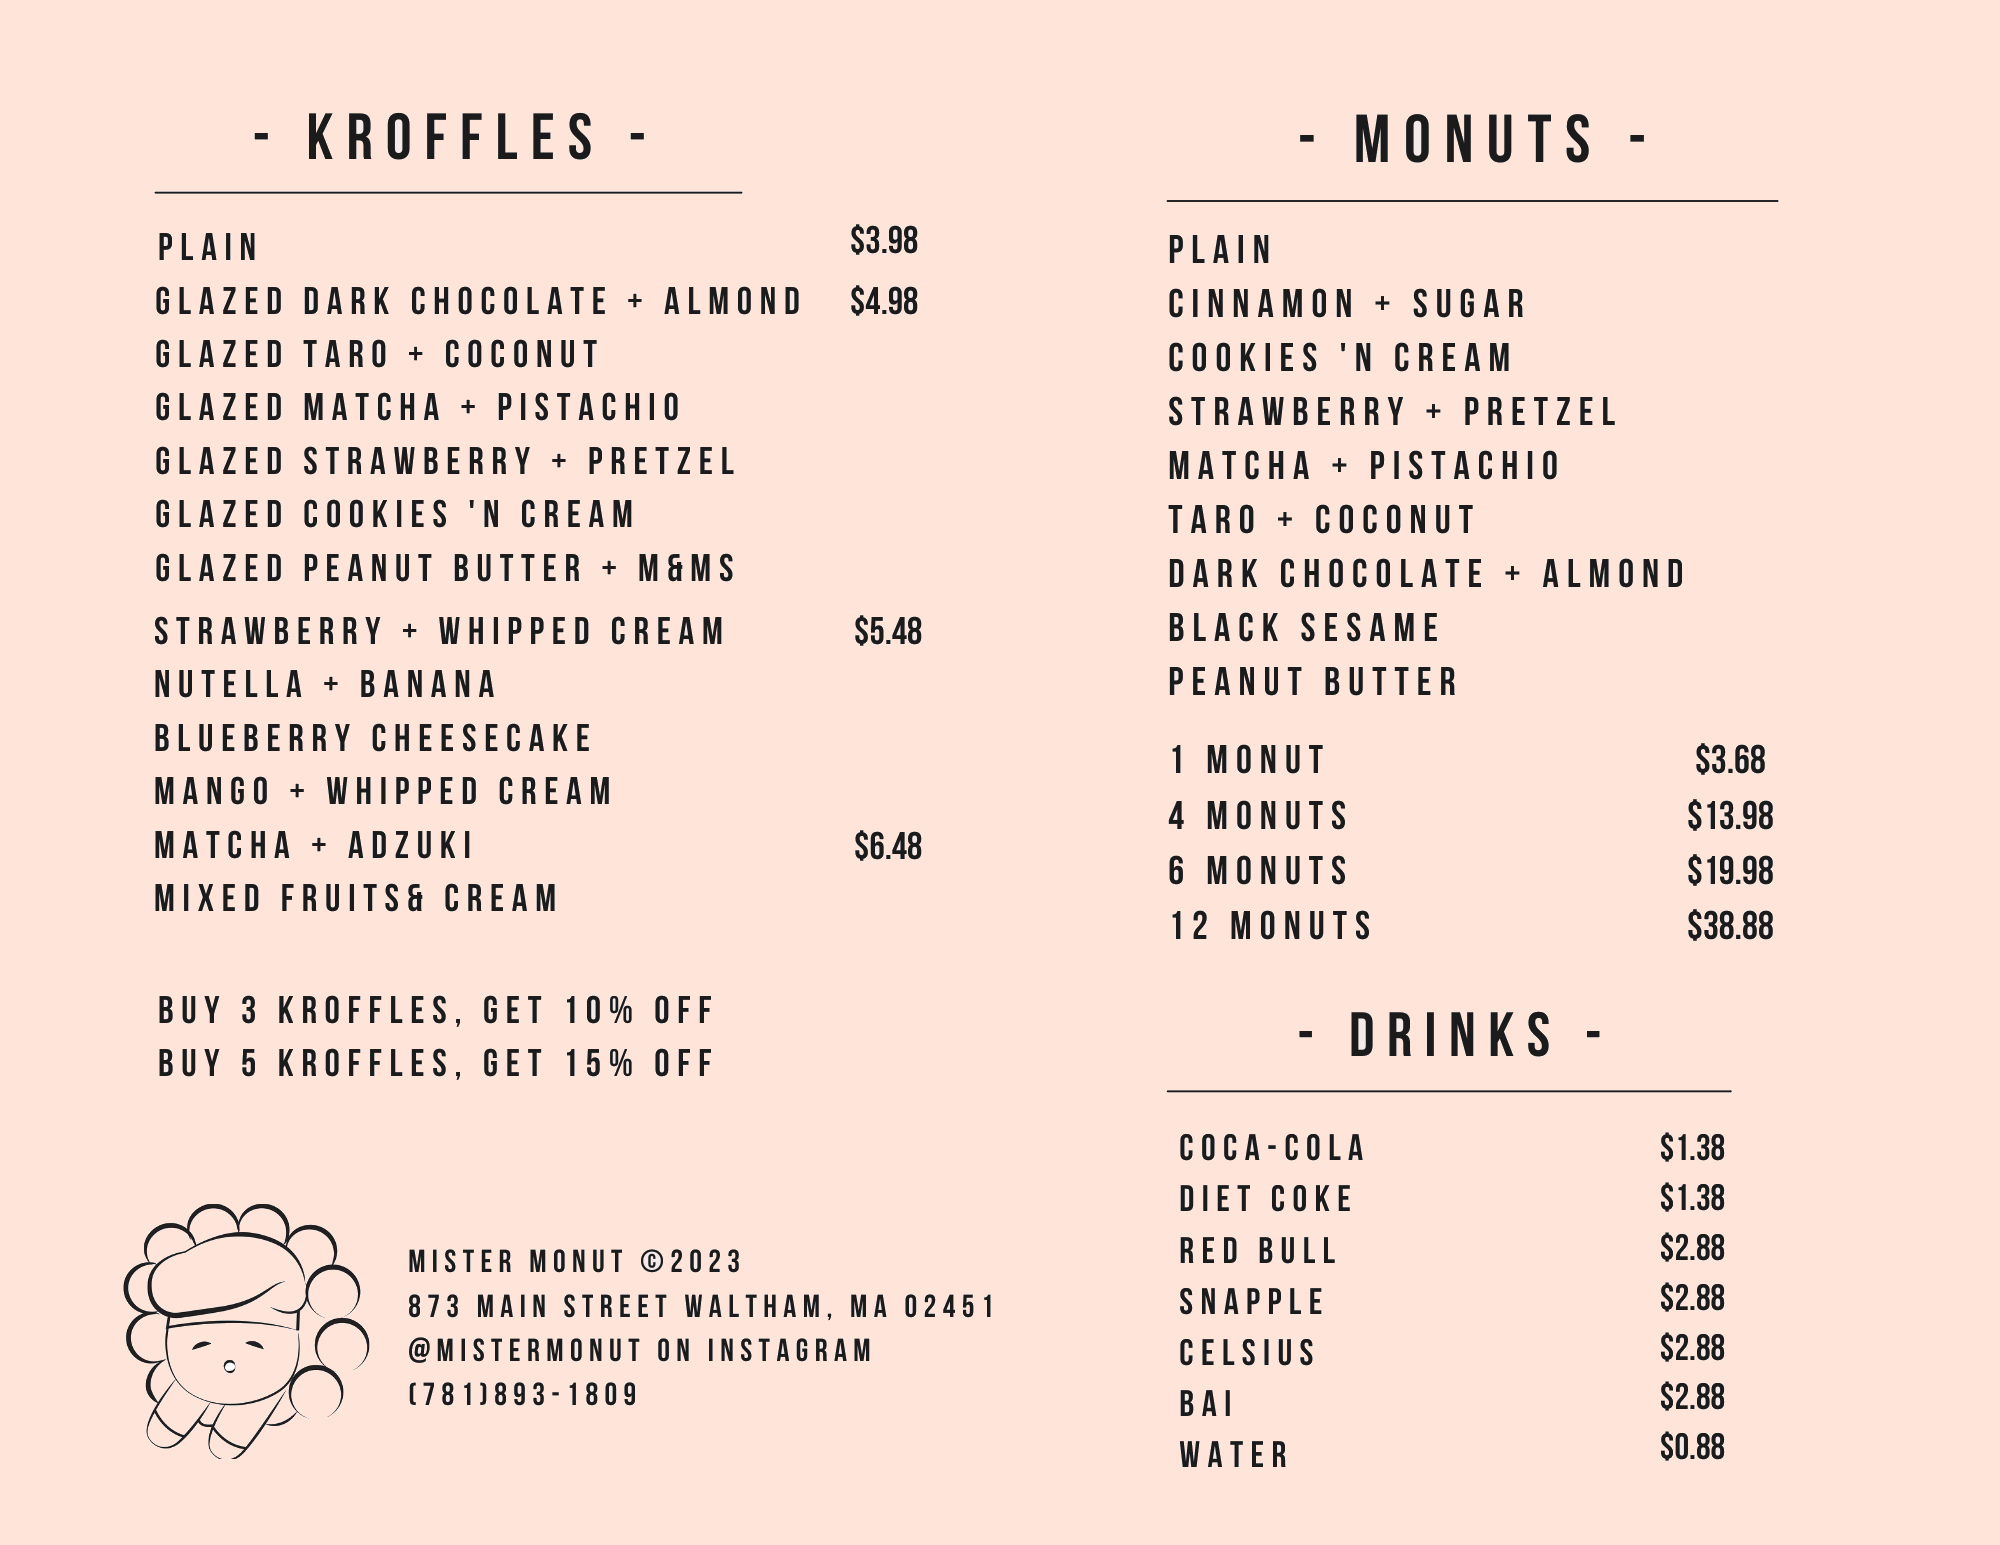
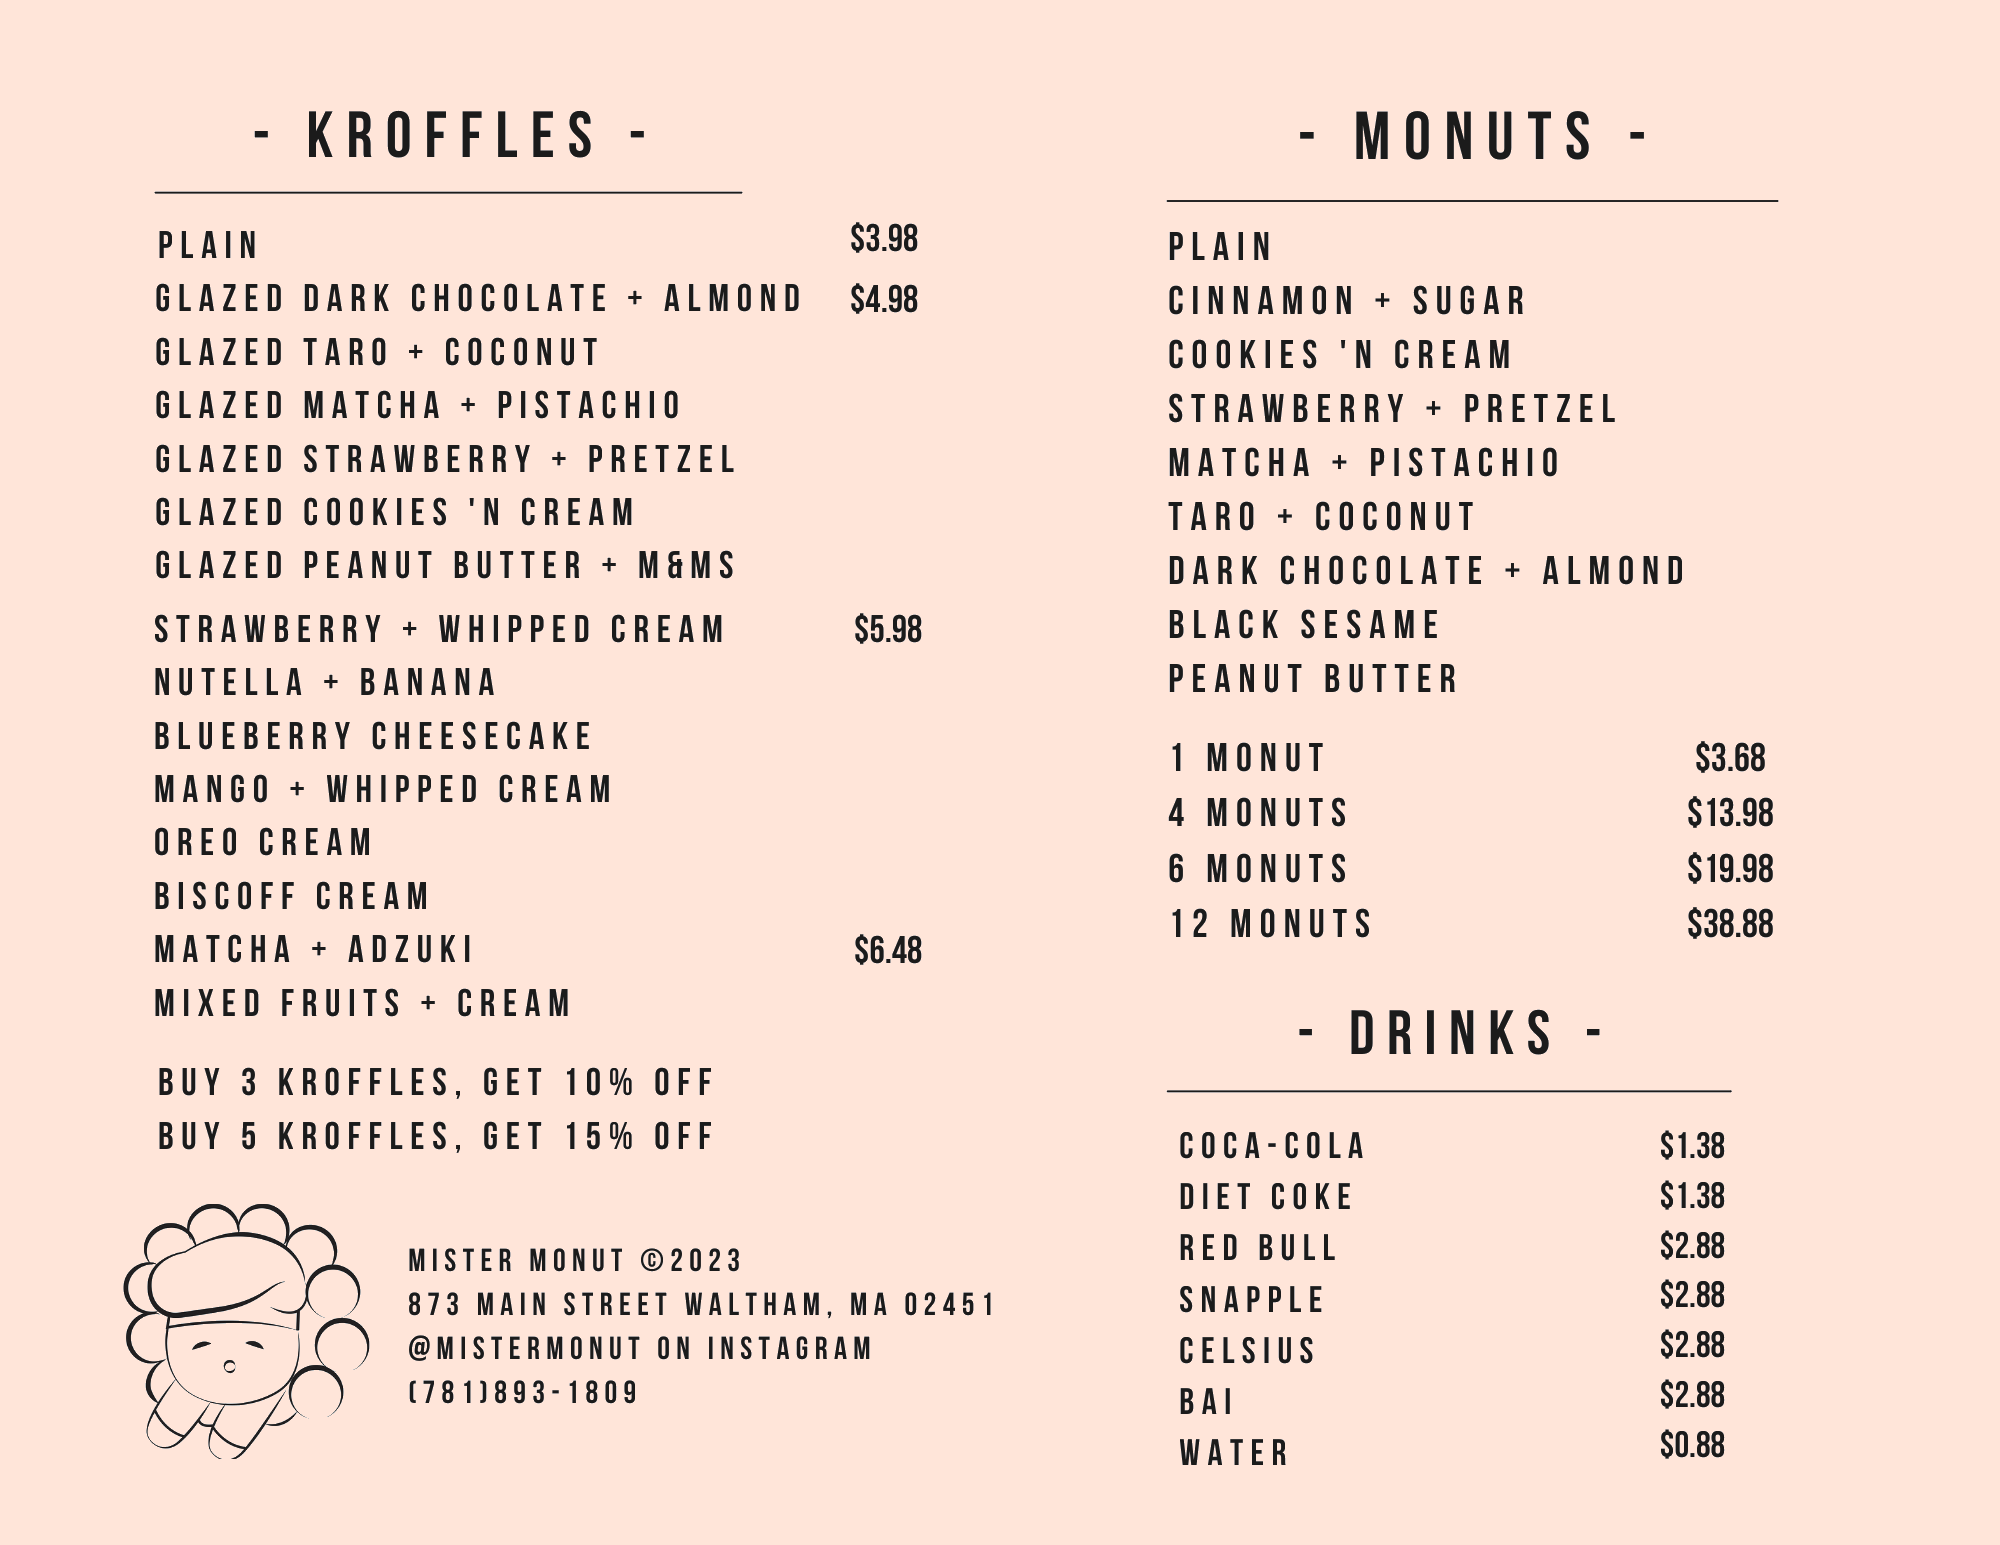
Added print menu with more flavors

diff --git a/src/data/kroffle-flavors.js b/src/data/kroffle-flavors.js
@@ -1,86 +1,105 @@
+// Types of prices for individual kroffles
+const regularPrice = 4.98;
+const premiumPrice = 5.98;
+const luxuryPrice = 6.48;
+
 const kroffleFlavors = [
     {
         name: 'Taro Glazed with Coconut',
         file: 'taro-coconut',
         type: 'glazed',
-        price: 4.98,
+        price: regularPrice,
         desc: 'A kroffle topped with a sweet taro glaze and shredded coconut.',
     },
     {
         name: 'Strawberry & Pretzel',
         file: 'strawberry',
         type: 'glazed',
-        price: 4.98,
+        price: regularPrice,
         desc: 'A kroffle topped with a strawberry milky glaze and crunchy strawberry pretzels.',
     },
     {
         name: 'Matcha Pistachio',
         file: 'matcha-pistachio',
         type: 'glazed',
-        price: 4.98,
+        price: regularPrice,
         desc: 'A kroffle topped with a bittersweet matcha glaze and crunchy pistachios.',
     },
     {
         name: 'Dark Chocolate',
         file: 'dark-choco',
         type: 'glazed',
-        price: 4.98,
+        price: regularPrice,
         desc: 'A kroffle topped with a dark chocolate glaze sprinkled with crunchy almonds.',
     },
     {
         name: 'Cookies & Cream',
         file: 'cookies-n-cream',
         type: 'glazed',
-        price: 4.98,
+        price: regularPrice,
         desc: 'A kroffle topped with a cookies and cream glaze and crunchy mini Oreos®.',
     },
     {
         name: 'Blueberry Cheesecake',
         file: 'blueberry',
         type: 'premium',
-        price: 5.48,
+        price: premiumPrice,
         desc: 'A kroffle topped with whipped blueberry cream cheese and fresh blueberries.',
     },
     {
         name: 'Strawberry & Cream',
         file: 'strawberry-cream',
         type: 'premium',
-        price: 5.48,
+        price: premiumPrice,
         desc: 'A kroffle topped with fresh whipped cream, ripe strawberries and sugar.',
     },
     {
         name: 'Strawberry & Blueberry',
         file: 'strawberry-blueberry',
         type: 'premium',
-        price: 5.48,
+        price: premiumPrice,
         desc: 'A kroffle topped with fresh whipped cream, ripe strawberries and blueberries sprinkled with sugar.',
     },
     {
         name: 'Nutella & Banana',
         file: 'banana-nutella',
         type: 'premium',
-        price: 5.48,
+        price: premiumPrice,
         desc: 'A kroffle topped with Nutella® whipped cream, fresh bananas and chocolate syrup.',
     },
     {
         name: 'Mango & Cream',
         file: 'mango',
         type: 'premium',
-        price: 5.48,
+        price: premiumPrice,
         desc: 'A kroffle topped with whipped cream and fresh mangoes.',
     },
+    // {
+    //     name: 'Oreo & Cream',
+    //     file: '',
+    //     type: 'premium',
+    //     price: premiumPrice,
+    //     desc: '',
+    // },
+    // {
+    //     name: 'Biscoff & Cream',
+    //     file: '',
+    //     type: 'premium',
+    //     price: premiumPrice,
+    //     desc: '',
+    // },
     {
         name: 'Matcha & Adzuki',
         file: 'matcha-adzuki',
         type: 'premium',
-        price: 6.48,
+        price: luxuryPrice,
         desc: 'A kroffle topped with a sweet red bean paste and bittersweet green tea cream.',
     },
     {
         name: 'Mixed Fruits & Cream',
         file: 'colorful-fruits',
         type: 'premium',
-        price: 6.48,
+        price: luxuryPrice,
         desc: 'A kroffle topped with fresh whipped cream and assorted seasonal fruits.',
     },
     // {

diff --git a/src/sections/home/monut-flavors.vue b/src/sections/home/monut-flavors.vue
@@ -92,7 +92,7 @@ export default {
   },
   data() {
     return {
-      kroffleFlavors: kroffleFlavors,
+      kroffleFlavors,
       monutFlavors,
     }
   },
